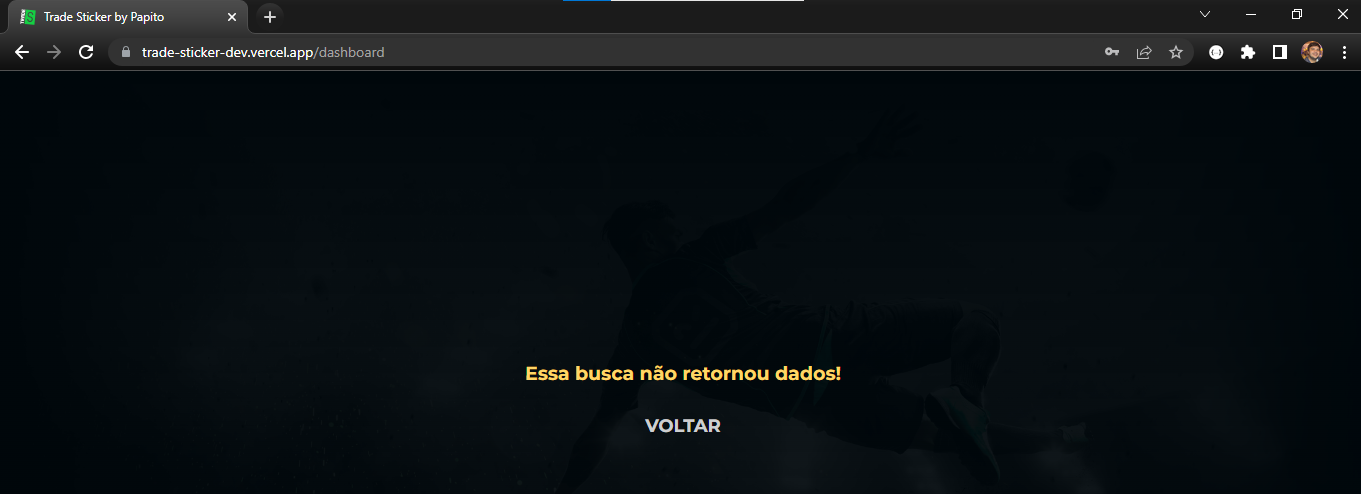
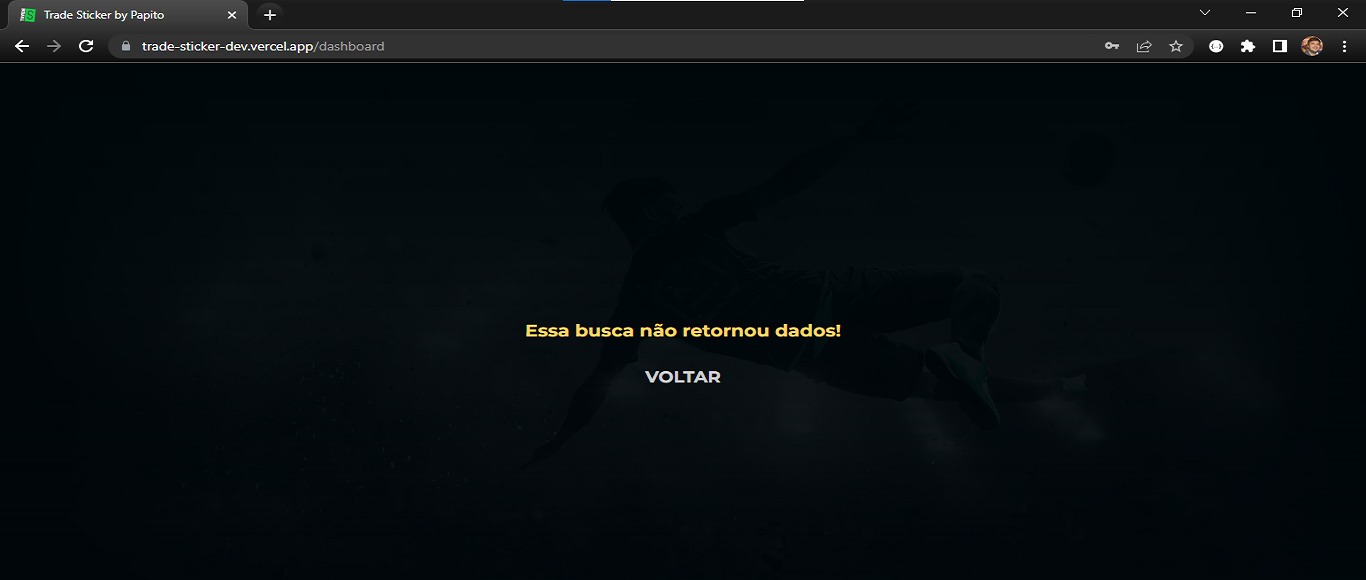
Ajuste no tamanho da imagem e atualização do README.md

diff --git a/README.md b/README.md
@@ -37,19 +37,23 @@
     cd VDT2/trade-sticker/
 
     Rodar a suíte de testes no Firefox:
+
         robot -d ./logs -v BROWSER:firefox tests/
 
     Rodar a suíte de testes no Chromium:
+    
         robot -d ./logs -v BROWSER:chromium tests/
+
+## Após a execução da suíte de testes terminar, será exibido em tela o caminho onde consta o log.html para consulta step by step de cada Caso de Teste e com screenshot anexado no relatório.
 
 ## Ponto de atenção ou um possível bug encontrado:
 
 ### Ao digitar Kylian Mbappé ou apenas Mbappé, o sistema não encontra a figurinha correspondente ao jogador e exibe um alerta em tela, mas é possível encontrá-la digitando apenas Kylian, porém, o craque francês é conhecido mundialmente como Mbappé, poucos o conhecem pelo seu primeiro nome.
 
 <h1 align="center">
-    <img src="images/Busca-por-Mbappé.png" width="350px">
+    <img src="images/Busca-por-Mbappé.png" width="550px">
 </h1>
 
 <h1 align="center">
-    <img src="images/Mbappé-não-encontrado.png" width="350px">
+    <img src="images/Mbappé-não-encontrado.png" width="550px">
 </h1>
